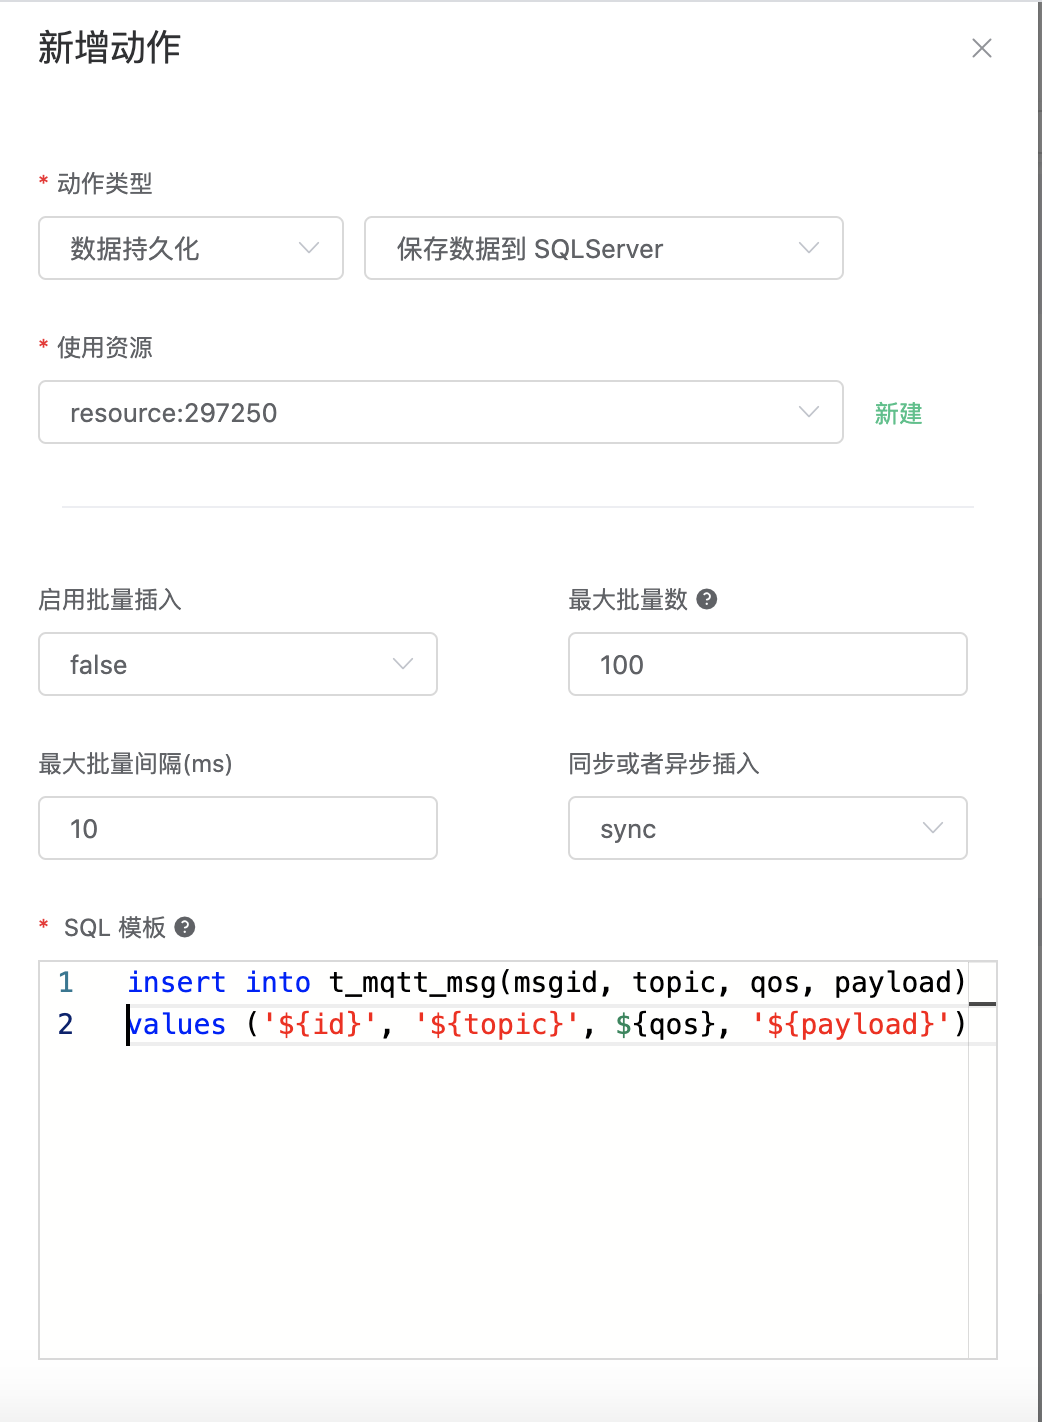
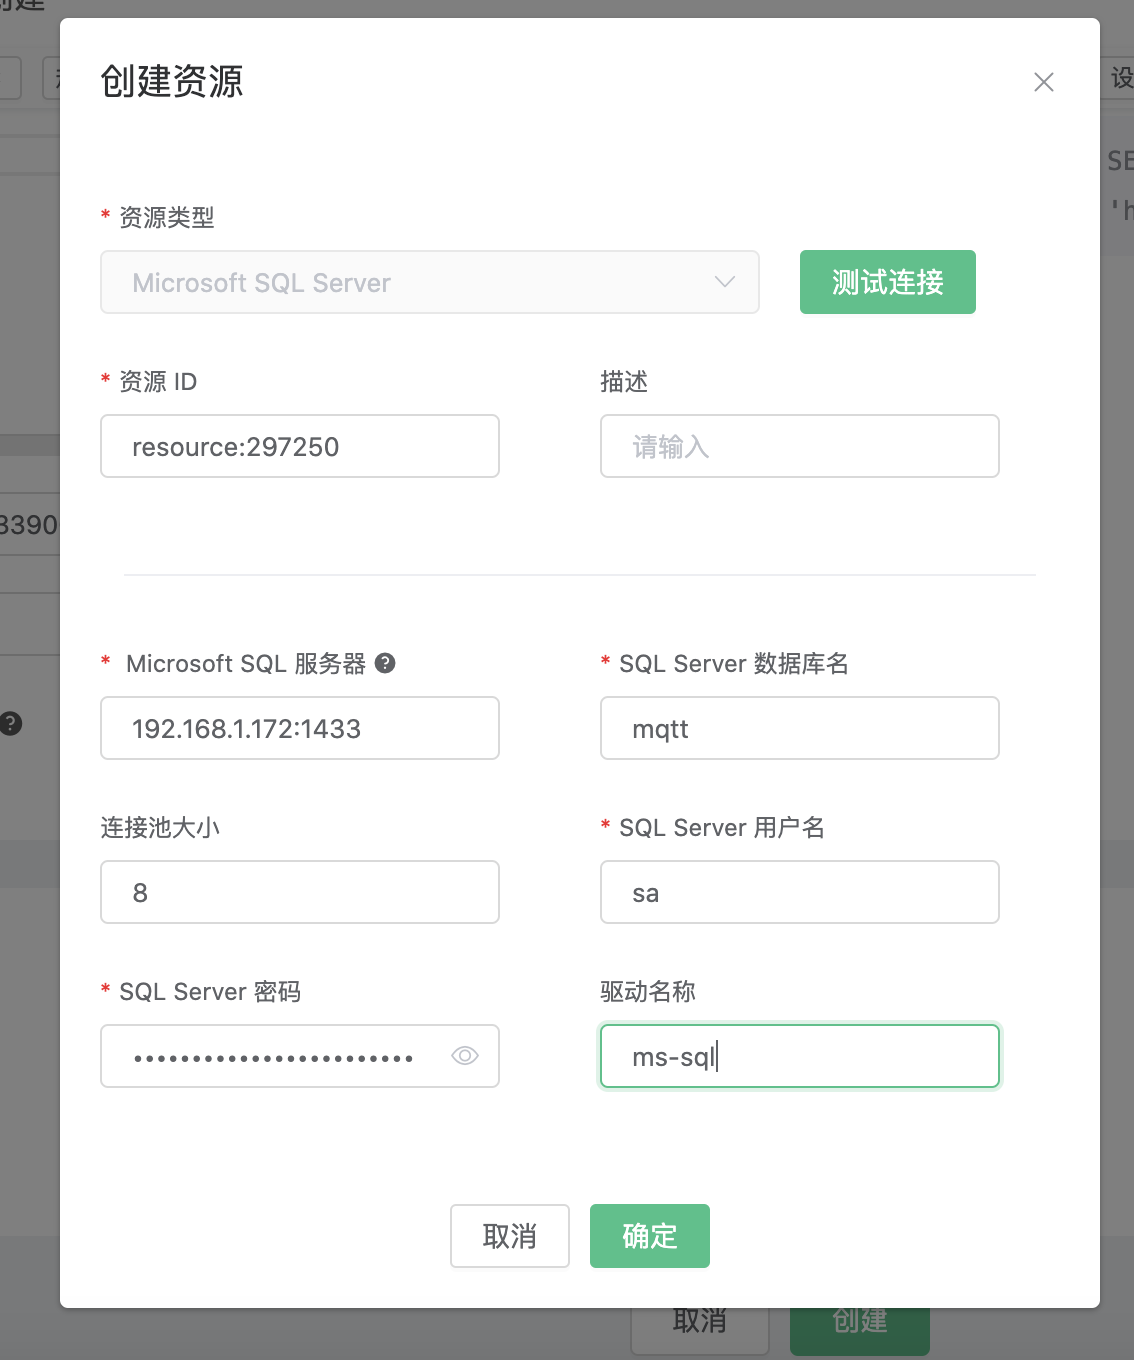
fix: sqlserver zh_CN refactor

diff --git a/zh_CN/rule/backend_sqlserver.md b/zh_CN/rule/backend_sqlserver.md
@@ -8,20 +8,20 @@ docker run -e 'ACCEPT_EULA=Y' -e 'SA_PASSWORD=mqtt_public' -p 1433:1433 -d mcr.m
 
 进入SQLServer容器， 初始化 SQLServer 表:
 
+设置 `sa` 密码
 ```bash
 $ /opt/mssql-tools/bin/sqlcmd -S localhost -U sa -P mqtt_public -d master
-$ mysql -u root -h localhost -ppublic
 ```
 
-创建 “test” 数据库:
+创建 “mqtt” 数据库:
 ```bash
-CREATE DATABASE test;
+CREATE DATABASE mqtt;
 go;
 ```
 创建 t_mqtt_msg 表:
 
 ```sql
-USE test;
+USE mqtt;
 go;
 CREATE TABLE t_mqtt_msg (id int PRIMARY KEY IDENTITY(1000000001,1) NOT NULL,
                          msgid   VARCHAR(64) NULL,
@@ -99,14 +99,14 @@ SELECT * FROM "t/#"
 insert into t_mqtt_msg(msgid, topic, qos, payload) values ('${id}', '${topic}', ${qos}, '${payload}')
 ```
 
-![image](./assets/rule-engine/sqlserver4.png)
+![image](./assets/rule-engine/sqlserver3.png)
 
 1). 关联资源的 ID。现在资源下拉框为空，可以点击右上角的 “新建资源” 来创建一个 SQLServer 资源:
 
 填写资源配置:
 数据库名填写 “mqtt”，用户名填写 “sa”，密码填写 “mqtt_public”
 
-![image](./assets/rule-engine/sqlserver3.png)
+![image](./assets/rule-engine/sqlserver4.png)
 
 点击 “新建” 按钮。
 
@@ -118,10 +118,6 @@ insert into t_mqtt_msg(msgid, topic, qos, payload) values ('${id}', '${topic}', 
 
 ![image](./assets/rule-engine/sqlserver6.png)
 
-在规则列表里，点击 “查看” 按钮或规则 ID 连接，可以预览刚才创建的规则:
-
-![image](./assets/rule-engine/sqlserver7.png)
-
 规则已经创建完成，现在发一条数据:
 
 ```bash
@@ -129,6 +125,13 @@ Topic: "t/a"
 QoS: 1
 Payload: "hello"
 ```
+
+在规则列表里，点击 “查看” 按钮或规则 ID 连接，可以预览刚才创建的规则:
+
+可以看到规则已经成功执行，统计指标已经增加。
+
+![image](./assets/rule-engine/sqlserver7.png)
+
 
 然后检查 SQLServer 表，新的 record 是否添加成功:
 
